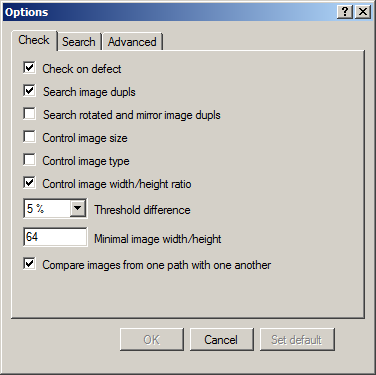
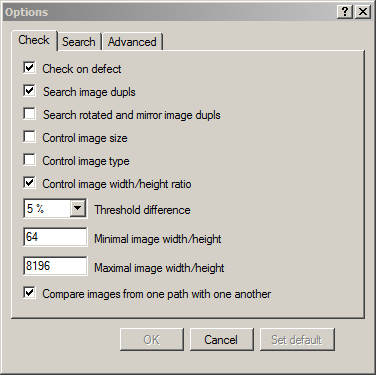
*updated help to version 2.3.0;

Changed region(s): [[0.0, 0.0, 0.9947, 0.0587], [0.0585, 0.6747, 0.7314, 0.7333], [0.0585, 0.7627, 0.7314, 0.8213]]

diff --git a/trunk/data/help/english/options.html b/trunk/data/help/english/options.html
@@ -76,9 +76,14 @@ By default, this parameter is equal to 5%.
 This parameter is duplicated on the <a href="index.html?page=toolbar.html" target="_top">Tool Bar</a>.
  </p></li>
  <li><p align="justify">
-<b>Minimal image width/height</b> - sets the minimum width/height of images is necessary that they will be checked for the presence of duplicates.
+<b>Minimal image width/height</b> - sets the minimum width/height of images is necessary that they will be checked for the presence of defects or duplicates.
 This option allows you to exclude from the search too small images.
 The default setting is 64. 
+ </p></li>
+ <li><p align="justify">
+<b>Maximal image width/height</b> - sets the maximum width/height of images is necessary that they will be checked for the presence of defects or duplicates.
+This option allows you to exclude from the search too large images.
+The default setting is 8192. 
  </p></li>
  <li><p align="justify">
 <b>Compare images from one path with one another</b> - when this option is enabled, the program compares one with another pictures that are located in the same <a href="index.html?page=paths.html" target="_top">search path</a>. 
@@ -158,6 +163,16 @@ By default, this option is enabled.
   <li><p align="justify">
 <b>PSD</b> - this option specifies whether you want to search for PSD(Photoshop Document) pictures. 
 They usually have an extension <b>*.psd</b>. 
+By default, this option is enabled.
+  </p></li> 
+  <li><p align="justify">
+<b>DDS</b> - this option specifies whether you want to search for DDS(DirectDraw Surface) pictures. 
+They usually have an extension <b>*.dds</b>. 
+By default, this option is enabled.
+  </p></li> 
+  <li><p align="justify">
+<b>TGA</b> - this option specifies whether you want to search for TGA(Truevision Graphics Adapter) pictures. 
+They usually have an extension <b>*.tga</b> or <b>*.tpic</b>. 
 By default, this option is enabled.
   </p></li> 
  </ul>

diff --git a/trunk/data/help/english/intro.html b/trunk/data/help/english/intro.html
@@ -13,14 +13,14 @@ And then more these collections, then more likely to have the large number of du
 The natural desire of the user is to get rid of them. 
 However, if the collection is large enough, do this manually is a very tedious and unproductive work. 
 <b>AntiDupl.NET</b> program will help you automate this process. 
-It can find and display duplicate images in the main graphic formats: JPEG, GIF, TIFF, BMP, PNG, EMF, WMF, EXIF, ICON, JP2 and PSD. 
+It can find and display duplicate images in the main graphic formats: JPEG, GIF, TIFF, BMP, PNG, EMF, WMF, EXIF, ICON, JP2, PSD, DDS and TGA. 
 The comparison is based on the contents of the files, so the program can find not only almost identical, but similar images. 
 In addition, the program can find images with some types of defects.
 </p>
 
 <p align="justify">
 <b>AntiDupl.NET</b> program is free and open-source software.
-It is simple to use, has high speed and accuracy of work, supports Russian, Byelorussian, Chinese, Ukrainian, German and English interface.
+It is simple to use, has high speed and accuracy of work, supports Russian and English interface.
 </p>
 
 </td></tr></table></body>

diff --git a/trunk/data/help/english/news.html b/trunk/data/help/english/news.html
@@ -7,6 +7,43 @@
 
 <h3>Last Updates</h3>
 
+<h3>2.3.0</h3>
+
+<p align=justify>
+There are following changes in the current version:
+</p>
+
+<ul>
+ <li><p align="justify">
+Added support for DDS(DirectDraw Surface) and TGA(Truevision Graphics Adapter) image formats. 
+ </p></li>
+ <li><p align="justify">
+A search profiles was added.
+ </p></li>
+ <li><p align="justify">
+Added optional limitation to the maximum size of the image when searching.
+ </p></li>
+ <li><p align="justify">
+Added saving/recovering of the position of the main window.
+ </p></li>
+ <li><p align="justify">
+The program will recommend to remove more new pictures, when all other things being equal.
+ </p></li>
+</ul>
+
+<p align="justify">
+Also bugs were fixed:
+</p>
+
+<ul>
+ <li><p align="justify">
+The program opens an invalid directory when renaming of pictures.
+ </p></li>
+ <li><p align="justify">
+The program does not move a picture to another disk when renaming.
+ </p></li>
+</ul>
+
 <h3>2.2.11</h3>
 
 <p align=justify>

diff --git a/trunk/data/help/english/menu.html b/trunk/data/help/english/menu.html
@@ -21,12 +21,10 @@ Menu <b>File</b> contains the following items:
 
 <ul>
  <li><p align="justify">
-<b>Save results</b> - this option allows you to save search results into file under any name.
-The chosen name will then be used for automatic saving and restoring the results.
+<b>Open search profile</b> - clicking on the item you can load a previously saved search profile (search settings, search paths and search results).
  </p></li>
  <li><p align="justify">
-<b>Load results</b> - clicking on the item you can load previously saved results.
-The chosen name will then be used for automatic saving and restoring the results.
+<b>Save search profile as</b> - this item allows you to save your current search profile with a new name.
  </p></li>
  <li><p align="justify">
 <b>Exit</b> - when you click on this point the program will exit.

diff --git a/trunk/data/help/english/developers.html b/trunk/data/help/english/developers.html
@@ -27,7 +27,7 @@ The author expresses his personal thanks to:
 
 <ul>
  <li><p align="justify">
-Vasily Fedoseev for the graphic design for versions <b>1.2.1.0-1.4.0.0, 1.5.2.0-2.2.11</b>.
+Vasily Fedoseev for the graphic design for versions <b>1.2.1.0-1.4.0.0, 1.5.2.0-2.3.0</b>.
  </p></li>
  <li><p align="justify">
 Roberto Corica for the translation into Italian language for versions <b>1.5.3.0-1.6.0.0, 1.8.0.354-1.8.5.379</b>.
